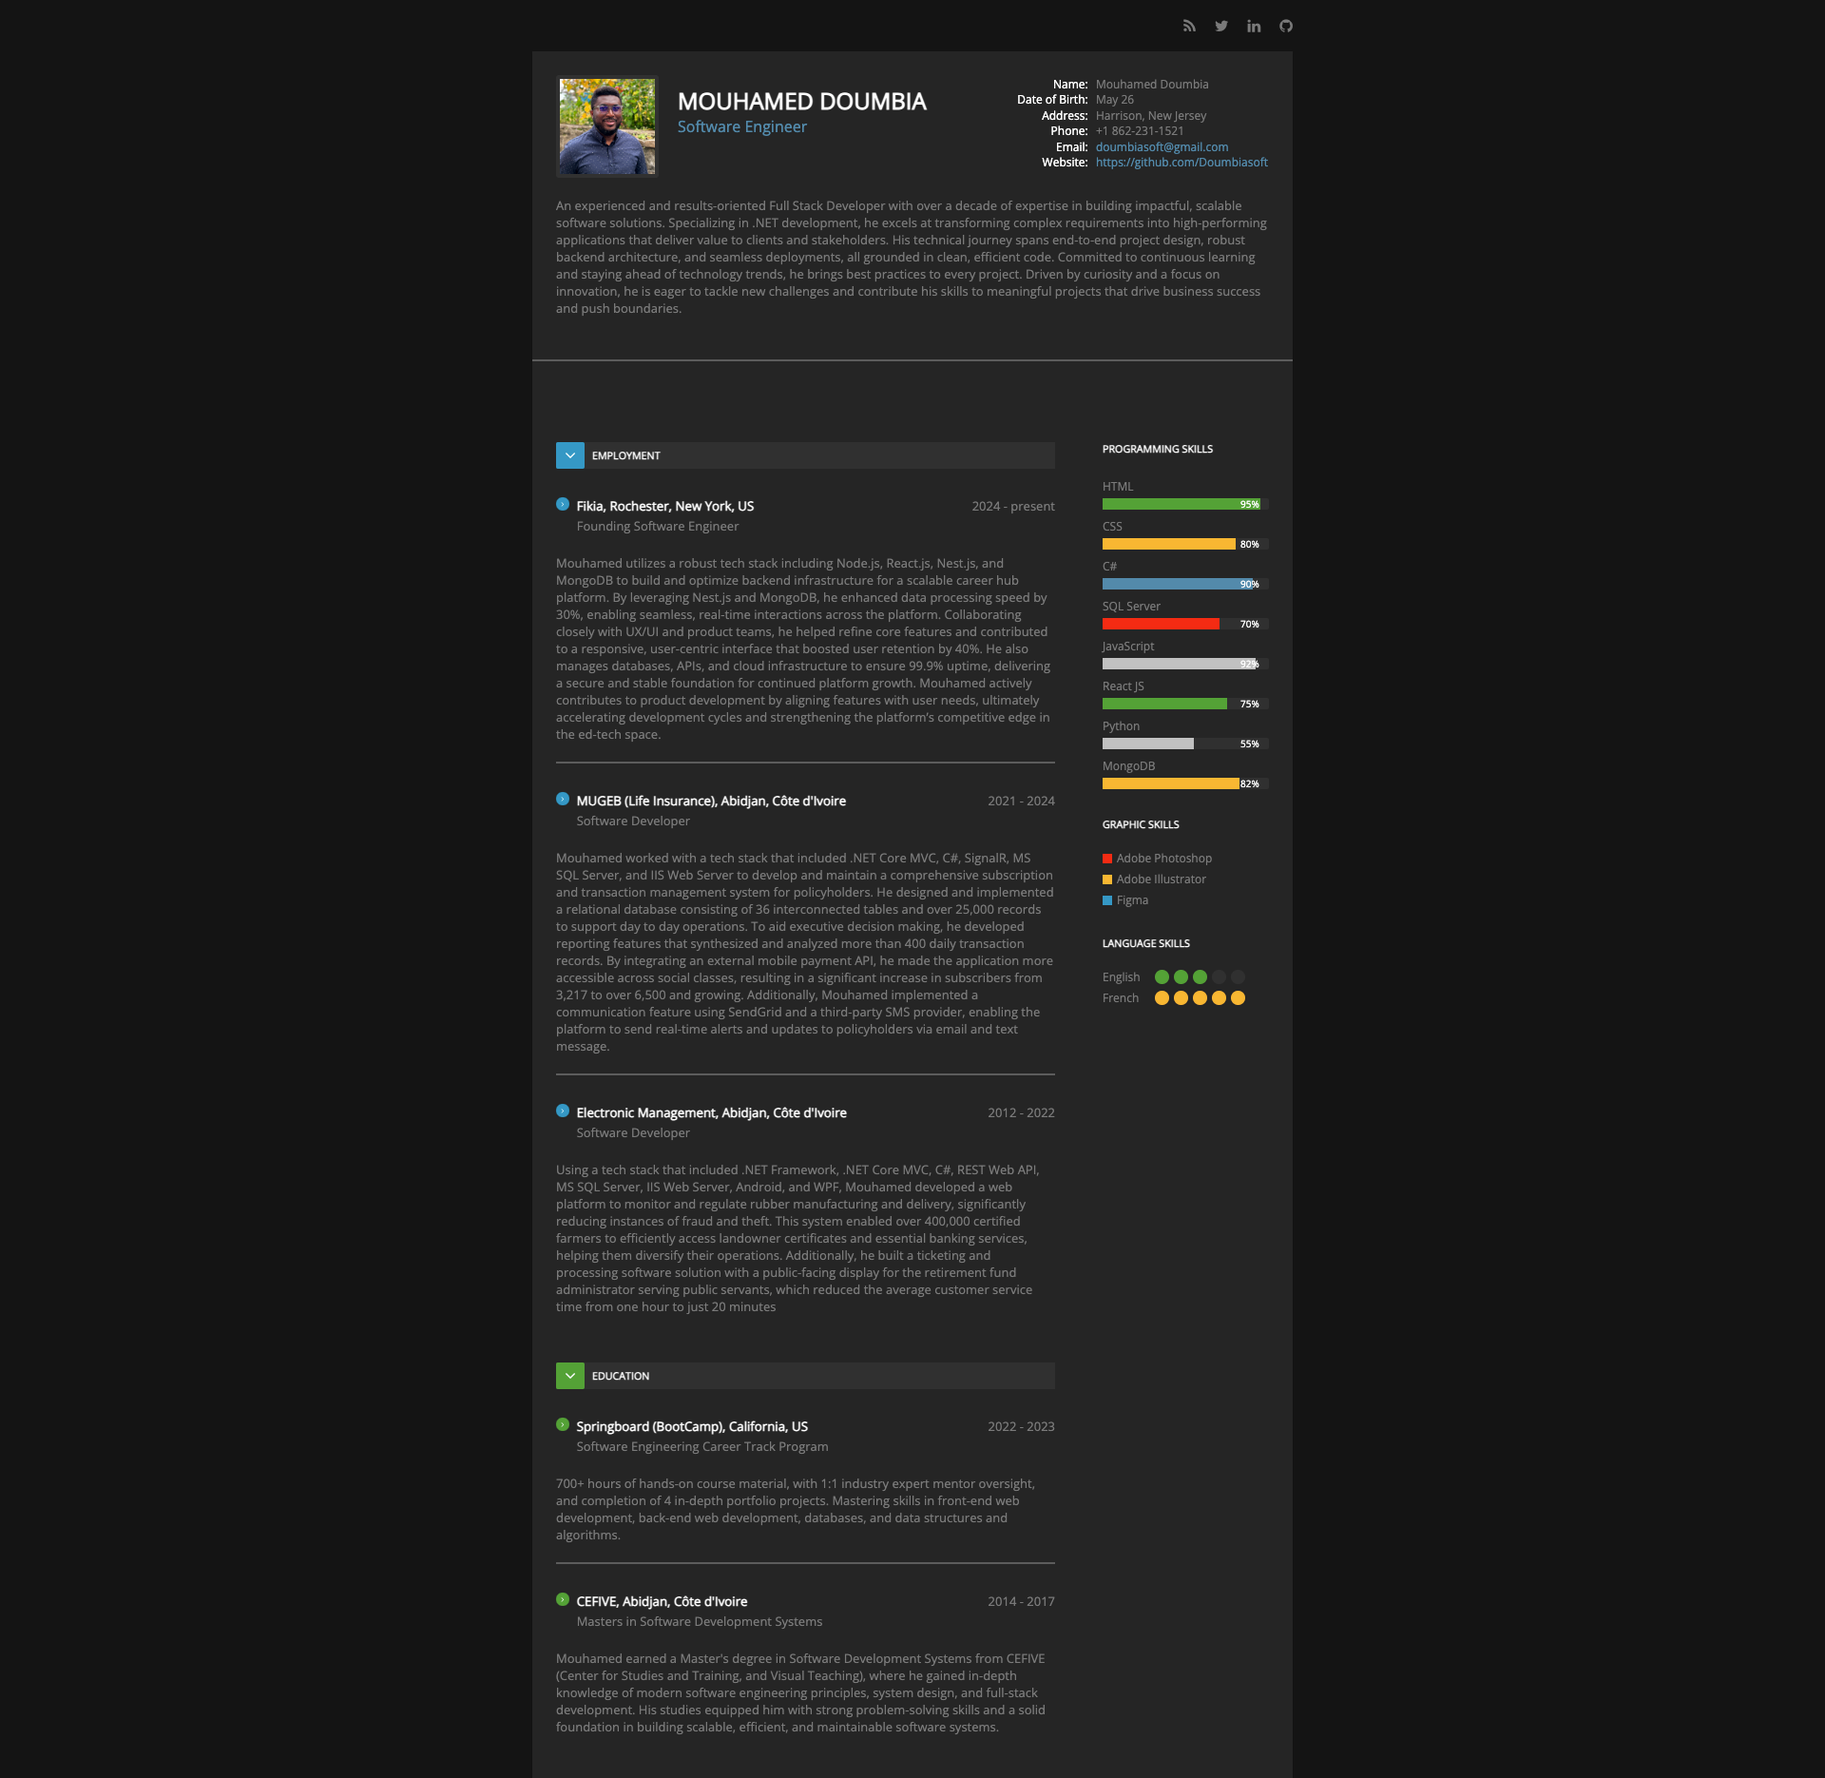
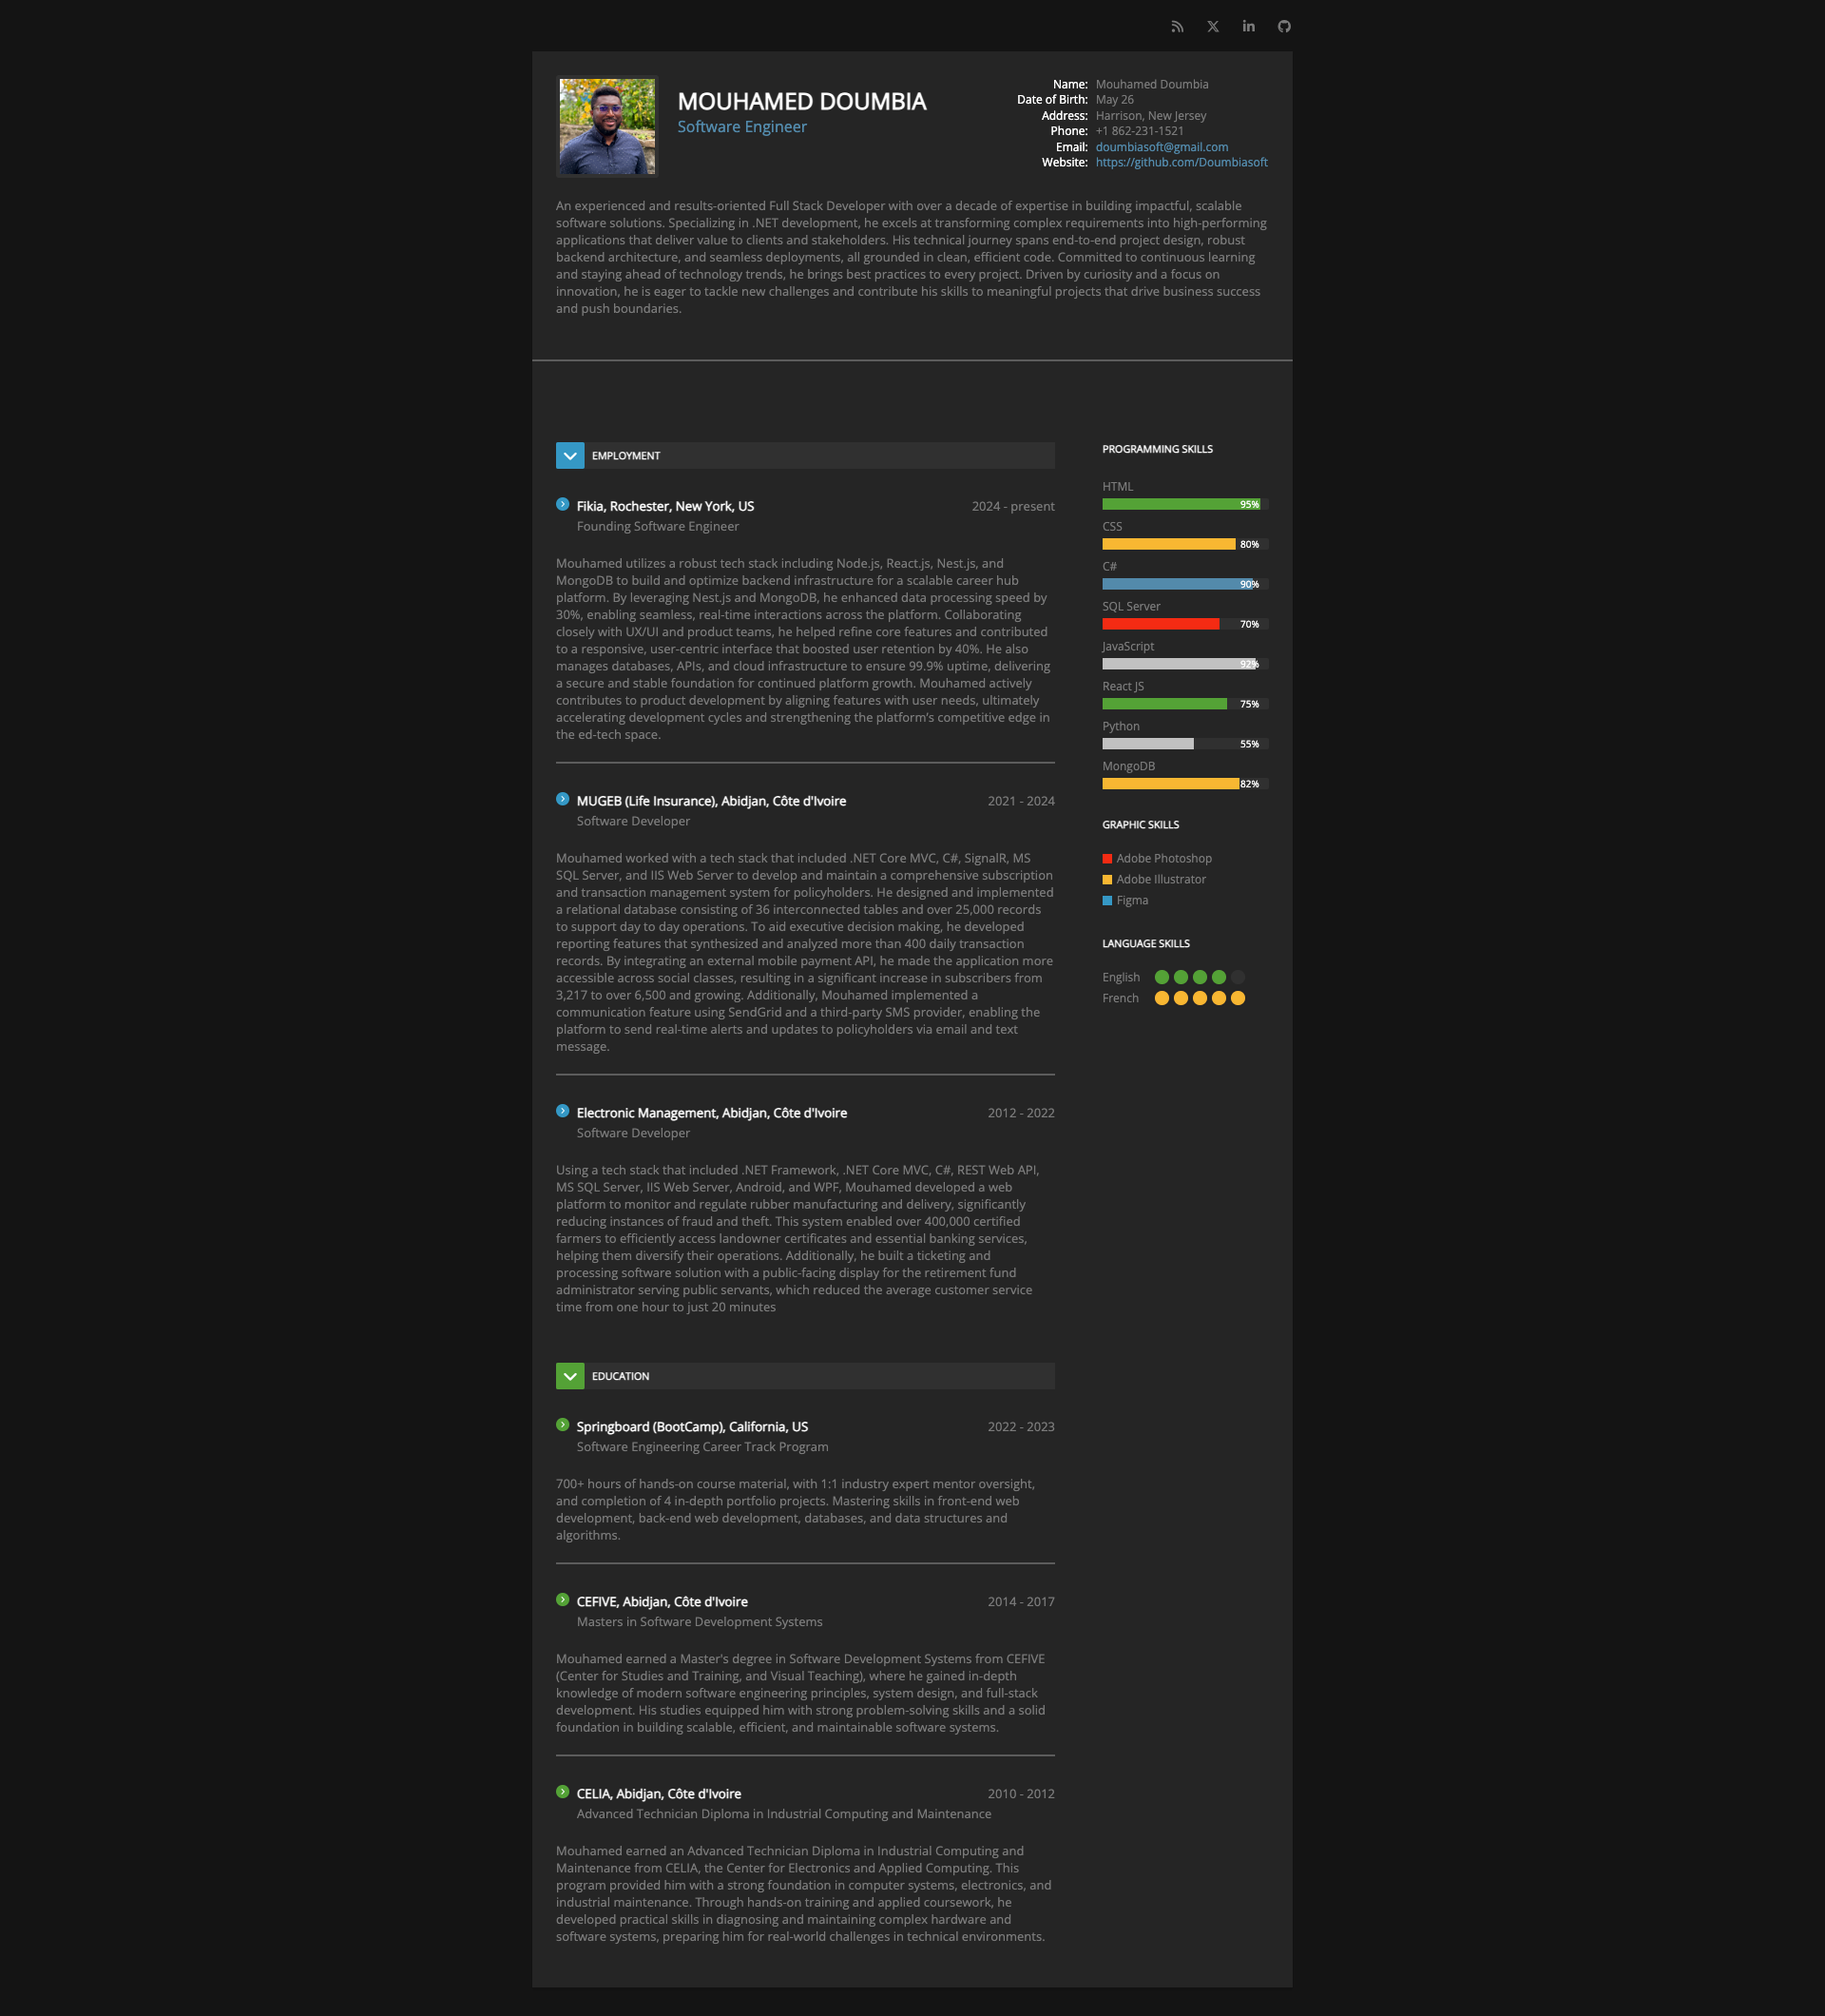
updated language section

Changed region(s): [[0.2812, 0.2171, 0.6875, 0.9925], [0.2812, 0.031, 0.6875, 0.1861], [0.5938, 0.5273, 0.6875, 0.5893]]

diff --git a/index.html b/index.html
@@ -384,7 +384,7 @@
                                     <div class="div-green dot-div"></div>
                                     <div class="div-green dot-div"></div>
                                     <div class="div-green dot-div"></div>
-                                    <div class="div-gray dot-div"></div>
+                                    <div class="div-green dot-div"></div>
                                     <div class="div-gray dot-div"></div>
                                 </div>
                             </div>
